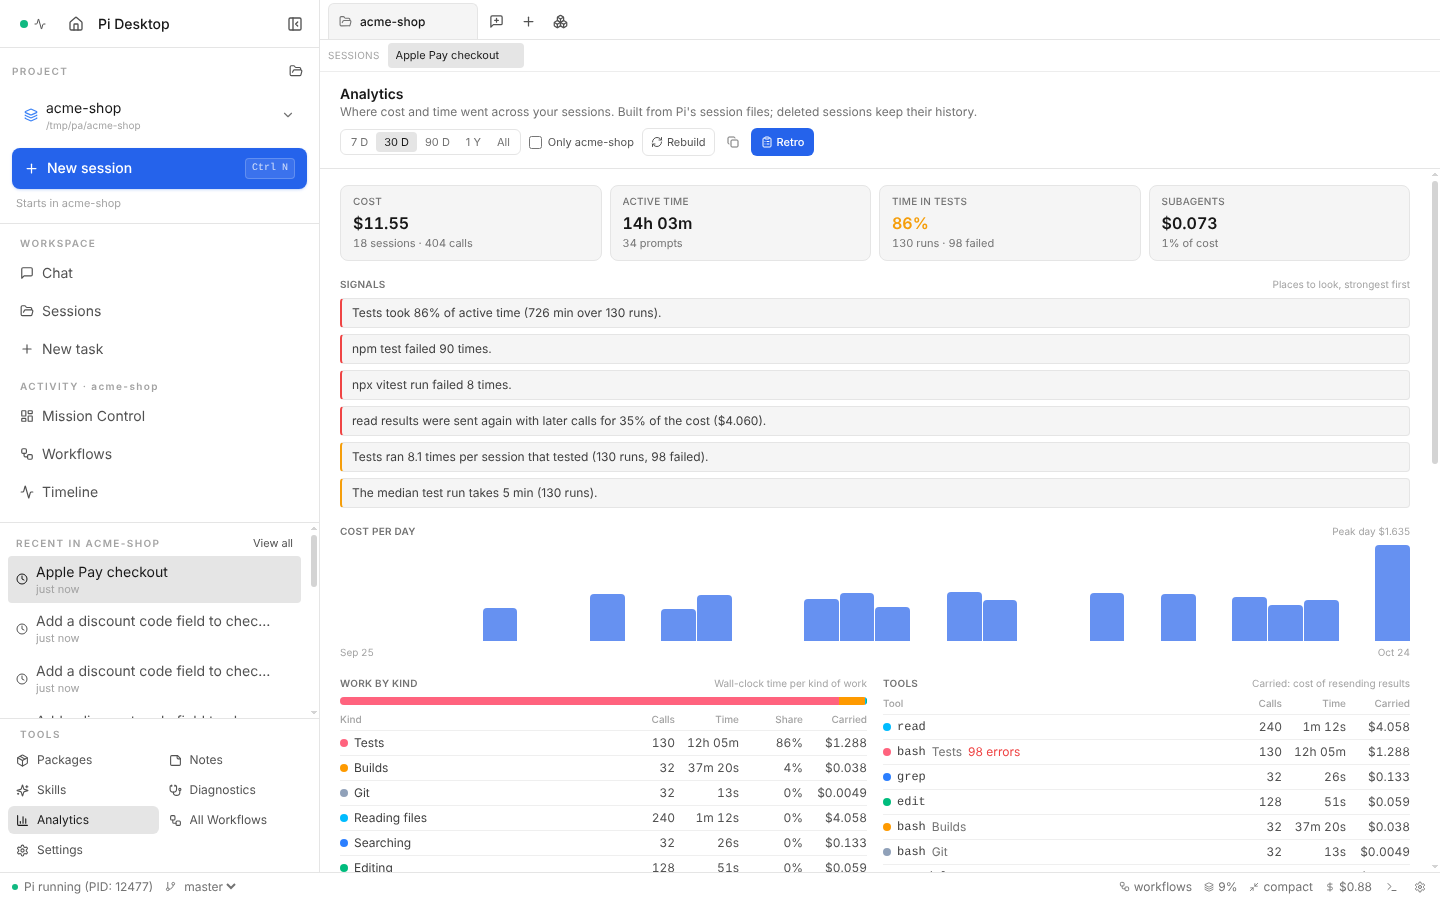
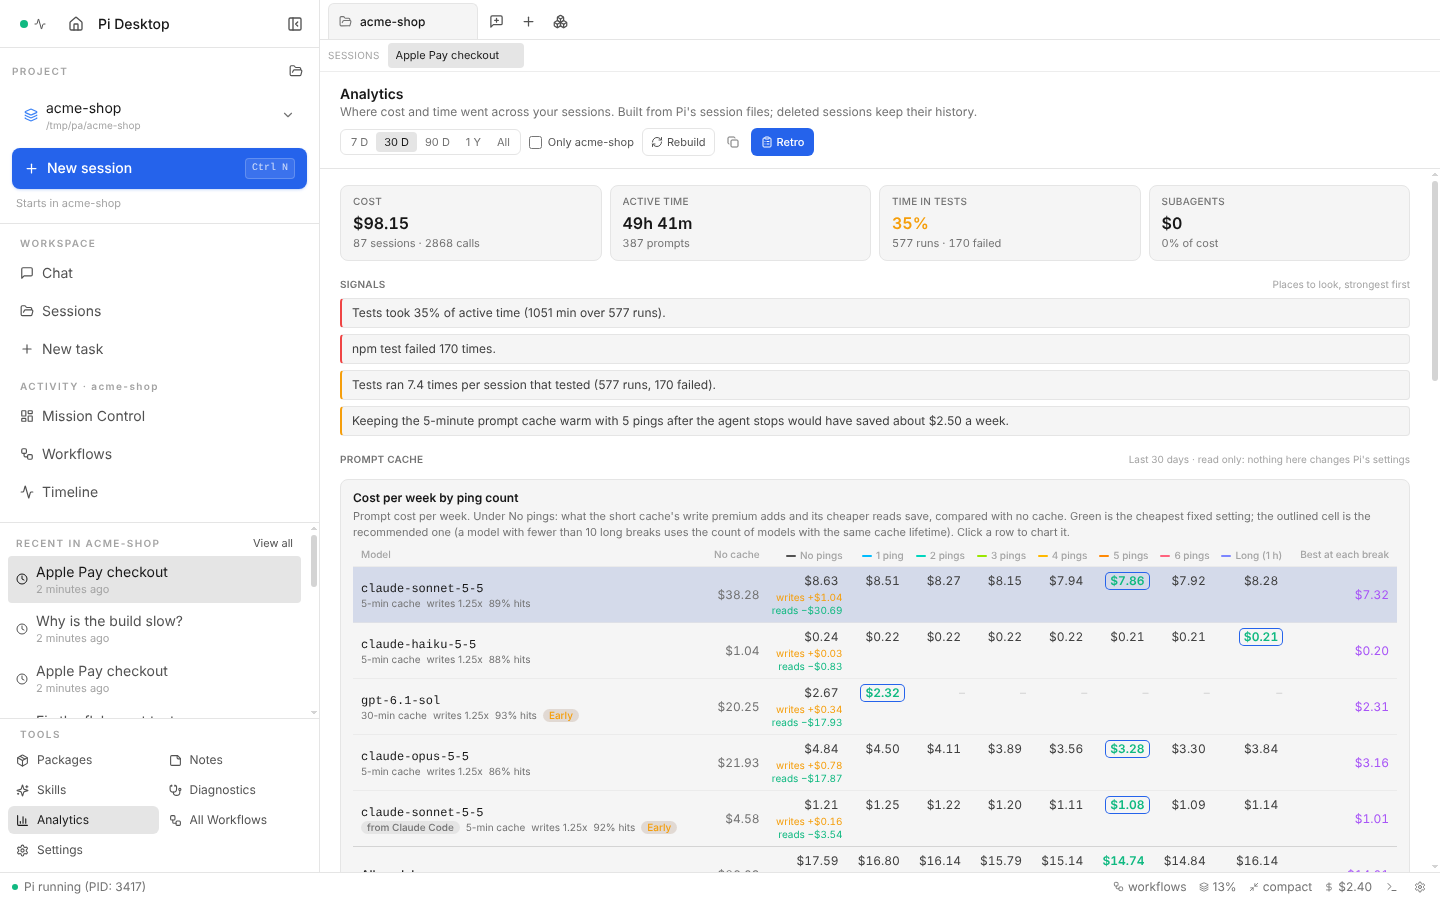
docs: refresh the analytics README and screenshots
Retake the overall analytics, prompt cache and pi-analytics report
screenshots from a build of master: the report shot still showed the
removed cache settings to apply. Describe the prompt cache on the
overall page, the imported Claude Code, Codex and Copilot sessions, and
what is coming next. Fix a blank line that split the pi-analytics
command table.

Claude-Session: https://claude.ai/code/session_01HmmA8NtNPB7B45WijPLPBs

diff --git a/README.md b/README.md
@@ -84,9 +84,9 @@ The main agent's snapshot is recorded by the bundled [pi-analytics](packages/pi-
 Analytics shows where money and time went: per tool, per kind of work (tests, builds, lint, installs, reading, searching, editing, subagents), per skill, per prompt and per day. It has two scopes:
 
 - **This session**: the chart button on the right-edge tool rail. The open chat plus its pi-subagents children, billion-context delegates and forks.
-- **Overall**: Sidebar > Tools > Analytics. Every session in a date range (7 days to all time), optionally only the open project, with cost per day, the most expensive sessions and prompts, and projects.
+- **Overall**: Sidebar > Tools > Analytics. Every session in a date range (7 days to all time), optionally only the open project, with the [prompt cache](#prompt-cache) analysis, cost per day, the most expensive sessions and prompts, and projects.
 
-![Analytics across sessions: signals, cost per day, work by kind and tools](docs/screenshots/analytics-overview.png)
+![Analytics across sessions: signals, then the prompt cache cost per week by ping count](docs/screenshots/analytics-overview.png)
 
 ![Analytics for one session beside the chat](docs/screenshots/analytics-session.png)
 
@@ -96,7 +96,9 @@ What it measures:
 - **Carried cost**: a tool result stays in the context and is sent again with every later call, mostly as cache reads, until a compaction drops it. Each result is charged its tokens times the prompt price of every later call on the same branch. This is usually where a large `read` really costs.
 - **Tests and builds**: shell commands are sorted by what they run (`npm test`, `vitest`, `pytest`, `go test`, `cargo test`, `npm run build`, `tsc`, `eslint`, ...), with run counts, failures and median run time.
 - **Skills**: a read of a skill's `SKILL.md`, or a `/skill:` command, counts as a load, and its text is charged carried cost like a tool result.
-- **Signals**: coarse rules that point at the biggest costs, for example tests taking a large share of active time, tests rerun many times per session, a command failing again and again, or one tool's results making up a large share of cost.
+- **Signals**: coarse rules that point at the biggest costs, for example tests taking a large share of active time, tests rerun many times per session, a command failing again and again, one tool's results making up a large share of cost, or keep-warm pings that would have saved money.
+
+### Prompt cache
 
 **Prompt cache** (Overall scope) is read only: it shows what each cache setting would have cost, and changes nothing in Pi. It replays each model's calls, with their real prompt sizes and the real breaks between them, the way Pi warms: a refresh at 90% of the cache lifetime, and none after Pi stops warming, 30 minutes after a run. A break the pings do not bridge pays for its pings and a full rewrite.
 
@@ -106,6 +108,10 @@ What it measures:
 Rates follow the vendors: Anthropic writes cost 1.25x input on the 5-minute cache and 2x on the 1-hour one, reads 0.1x (0.05x on Opus 5.5); OpenAI GPT-5.6 and later have a 30-minute cache with 1.25x writes, and Pi's long setting asks them for 30 minutes too, so they have no Long column; older OpenAI and Gemini models cache automatically with no write charge, so pings cannot change them; GitHub Copilot bills at the upstream vendor's rates. The section says which day the rules were last checked. It is an estimate: it assumes the same calls at the same times.
 
 ![Prompt cache cost per week by ping count, and the running cost chart for one model](docs/screenshots/analytics-cache.png)
+
+**Other tools' sessions**: the replay also reads the local logs of Claude Code (`~/.claude/projects`), the Codex CLI (`~/.codex/sessions`) and the GitHub Copilot app and CLI (`~/.copilot/session-state`), so it can check warming against more than Pi's own history. Their models get their own rows with a **from Claude Code** (or Codex, Copilot) tag, priced at the vendors' API list prices, so a subscription session shows what the API would have charged. Copilot logs only per-run totals, so its rows are marked **estimated**. The [pi-analytics README](packages/pi-analytics/README.md#other-tools-sessions) lists what each tool records and how to turn each one off.
+
+Coming next: long-prompt tier pricing with a model price table (`pi-analytics prices`), and a Pi extension that applies each model's ping count while you are away. Until then nothing here changes how Pi warms its cache.
 
 The same report runs without the app: [`packages/pi-analytics`](packages/pi-analytics/README.md) is a Pi package and CLI (`pi-analytics report`, or `/analytics` inside Pi) that writes this view as one HTML file, and `pi-analytics cache` prints the prompt cache analysis.
 

diff --git a/packages/pi-analytics/README.md b/packages/pi-analytics/README.md
@@ -22,7 +22,6 @@ The same commands run as `pi-analytics <command>` in a terminal or `/analytics <
 | `report [--range 7\|30\|90\|365\|all] [--out file] [--no-open] [--rebuild]` | Writes the HTML report to `~/.pi/agent/pi-analytics/reports/` and opens it. Default range: 30 days. |
 | `cache [--range ...] [--details 5m\|30m]` | Per cache lifetime and model: the hit rate, the ping count that would have cost least, and what it saves a week. `--details` adds every count's cost, the per-model and per-break comparisons, and the last two weeks side by side. |
 | `sources [--rebuild]` | Which tools' sessions are read, with how many sessions, the days they cover and their list-price cost. |
-
 | `sessions [--session <id>] [--no-open]` | Opens the live session page (below). |
 | `serve [--port <port>]` | Runs the page's helper in the foreground, to see its log. |
 
